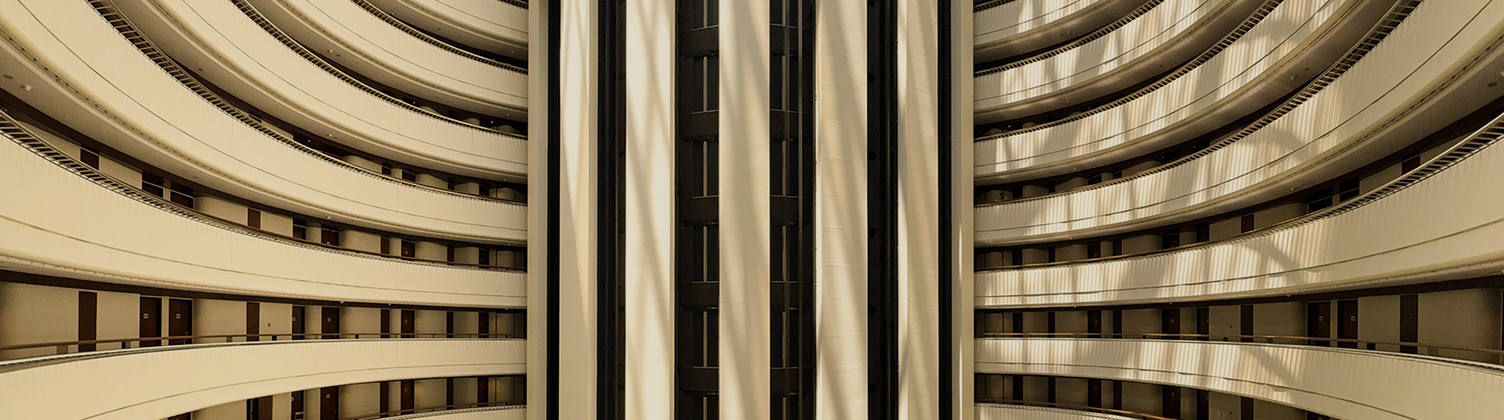
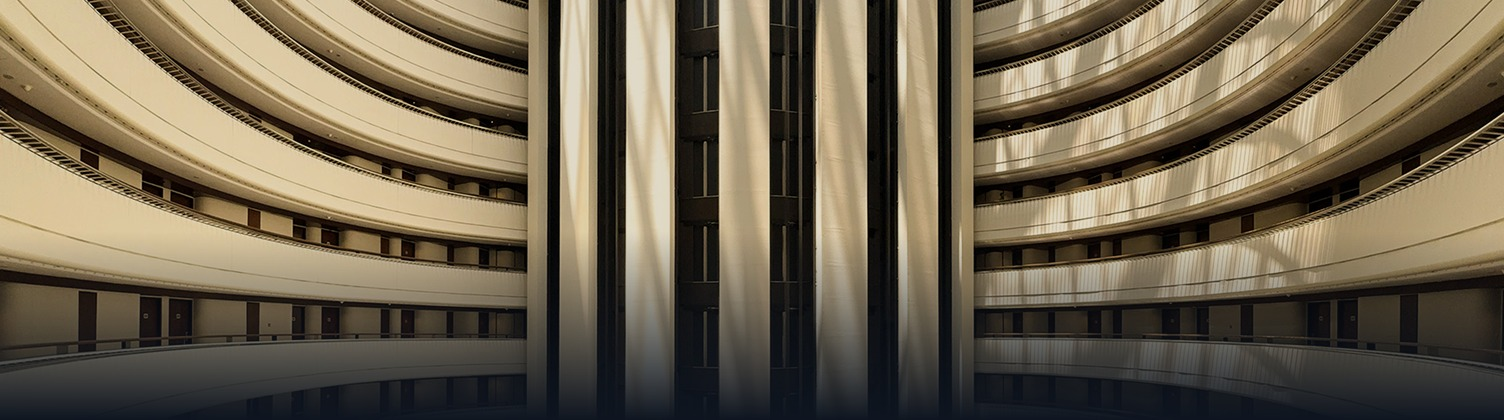
Tiles: bake navy bottom fade into images

Changed region(s): [[0.0, 0.5881, 1.0, 1.0]]

diff --git a/style.css b/style.css
@@ -584,22 +584,10 @@ footer{
 }
 .landing-tile:last-child{border-right:none}
 
-/* tiles 1-3: photo clear at top, fades to navy at bottom */
-.tile-1{
-  background:
-    linear-gradient(to bottom, rgba(14,21,32,0) 55%, #0e1520 100%),
-    url('assets/tile-bg-1.jpg') center/cover no-repeat;
-}
-.tile-2{
-  background:
-    linear-gradient(to bottom, rgba(14,21,32,0) 55%, #0e1520 100%),
-    url('assets/tile-bg-2.jpg') center/cover no-repeat;
-}
-.tile-3{
-  background:
-    linear-gradient(to bottom, rgba(14,21,32,0) 55%, #0e1520 100%),
-    url('assets/tile-bg-3.jpg') center/cover no-repeat;
-}
+/* tiles 1-3: gradient baked into images */
+.tile-1{background:url('assets/tile-bg-1.jpg') center/cover no-repeat}
+.tile-2{background:url('assets/tile-bg-2.jpg') center/cover no-repeat}
+.tile-3{background:url('assets/tile-bg-3.jpg') center/cover no-repeat}
 
 .tile-1:hover,.tile-2:hover,.tile-3:hover{}
 